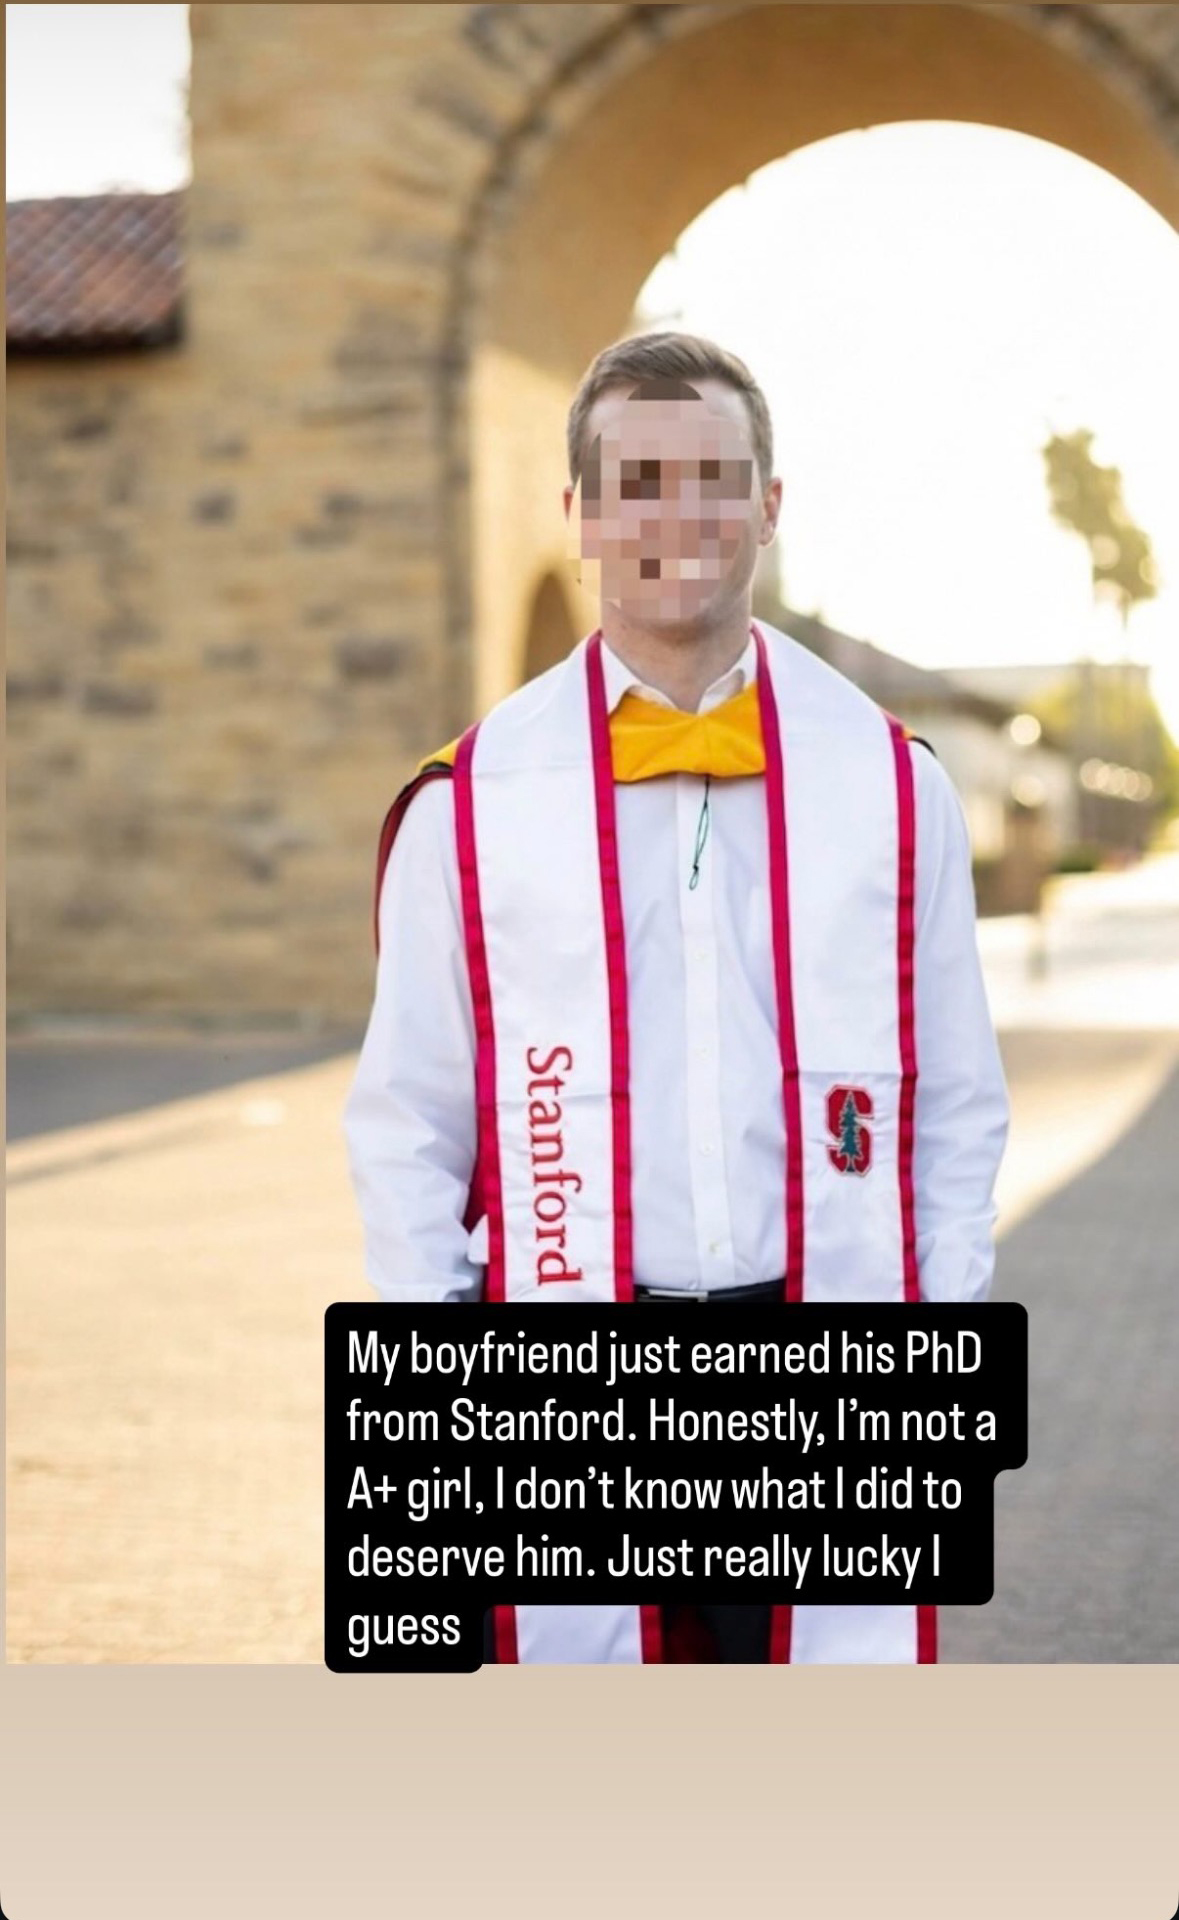
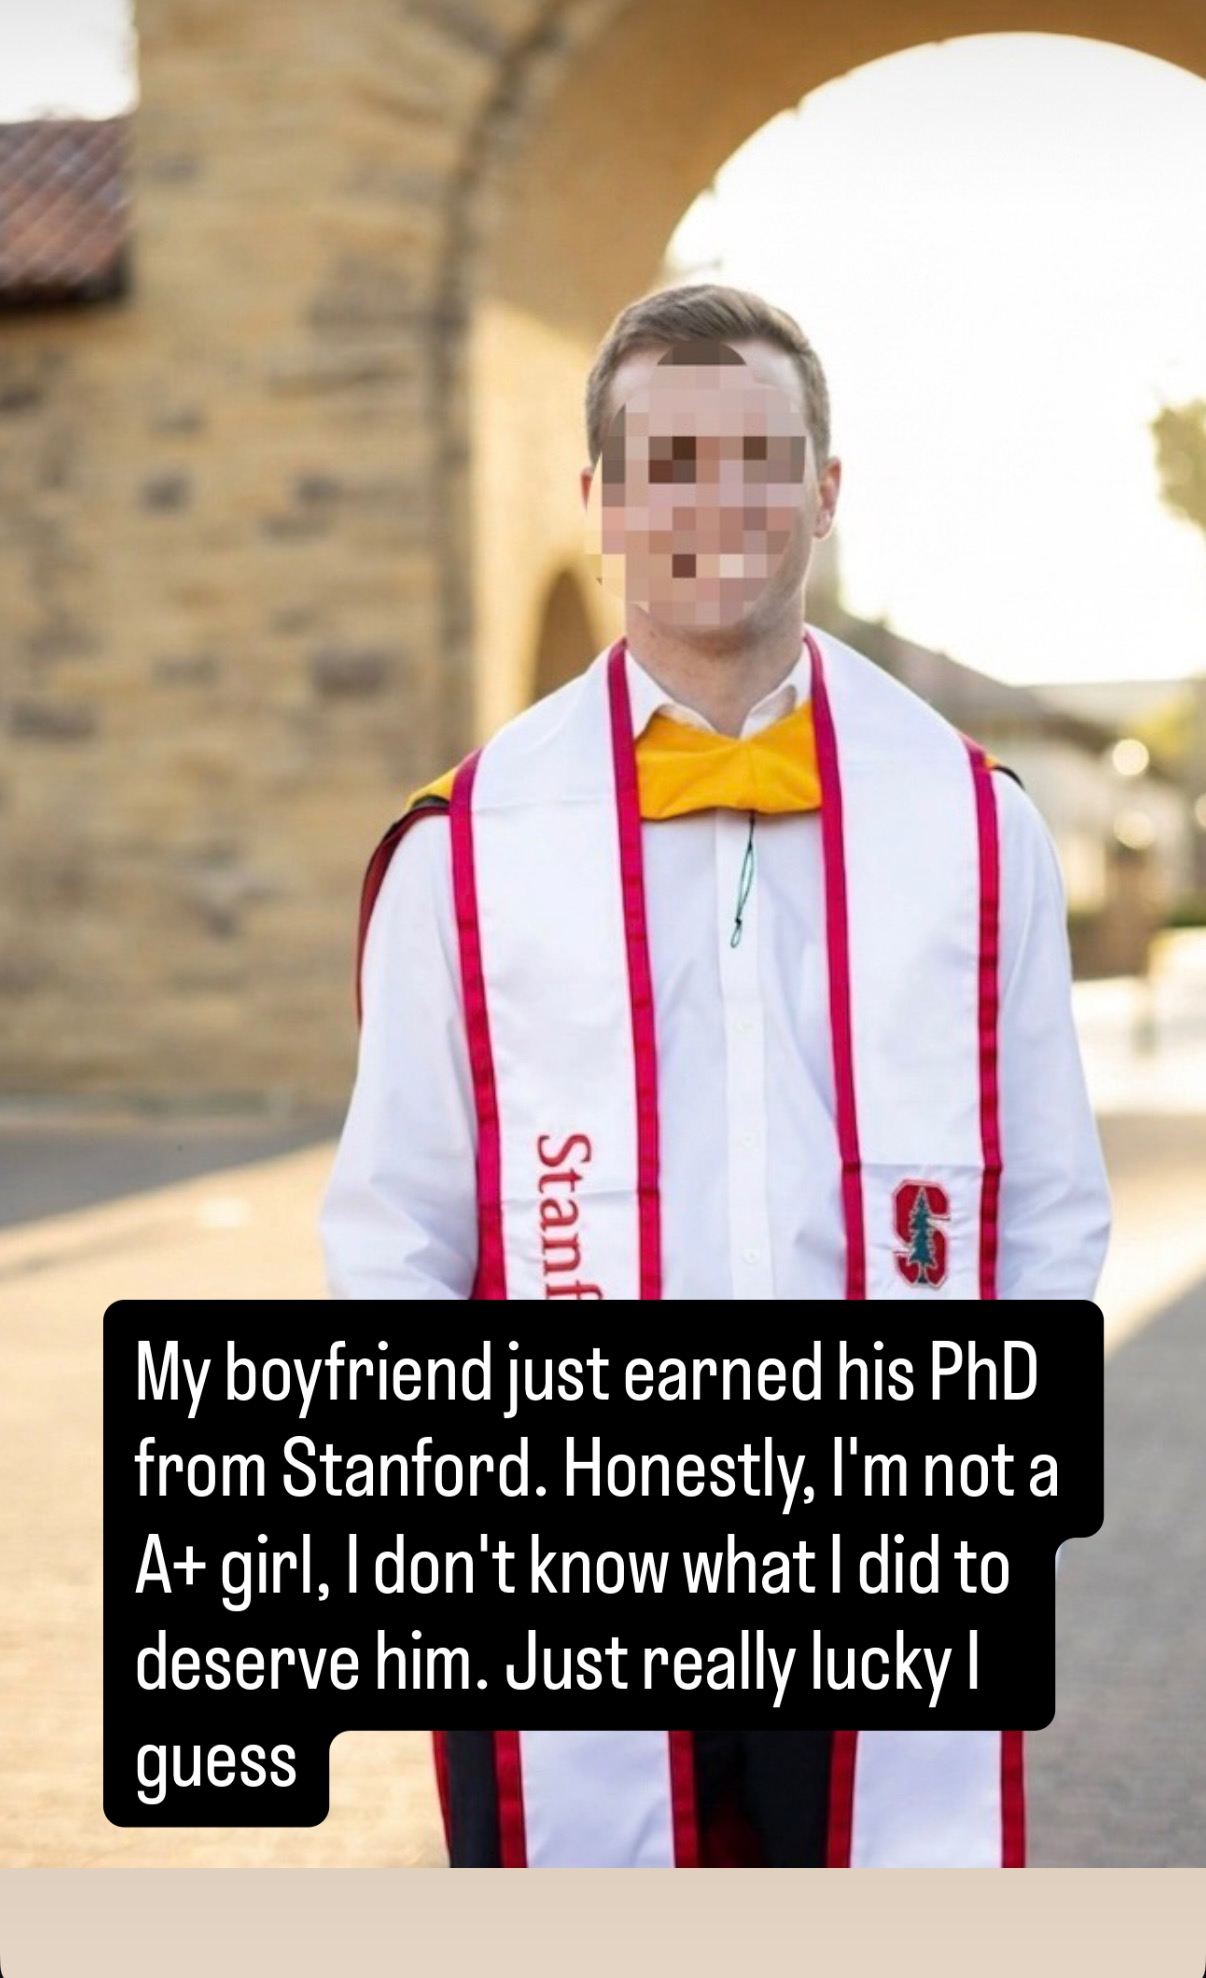
Add files via upload

diff --git a/HB_set2/HB_set2.html b/HB_set2/HB_set2.html
@@ -340,21 +340,21 @@ const stories = [
     caption: '',
     label:   'Graduation',
     type:    '',
-    duration: 10000
+    duration: 15000
   },
   {
-    bg:      'url("filler2.jpg") center/contain no-repeat',
+    bg:      'url("filler.jpg") center/contain no-repeat',
     caption: '',
-    label:   'campus flowers',
+    label:   'Exploring',
     type:    '',
-    duration: 10000
+    duration: 15000
   },
   {
     bg:     'url("HB-3.jpg") center/contain no-repeat',
     caption: '',
     label:   'bar',
     type:    '',
-    duration: 10000
+    duration: 15000
   }
 ];
 